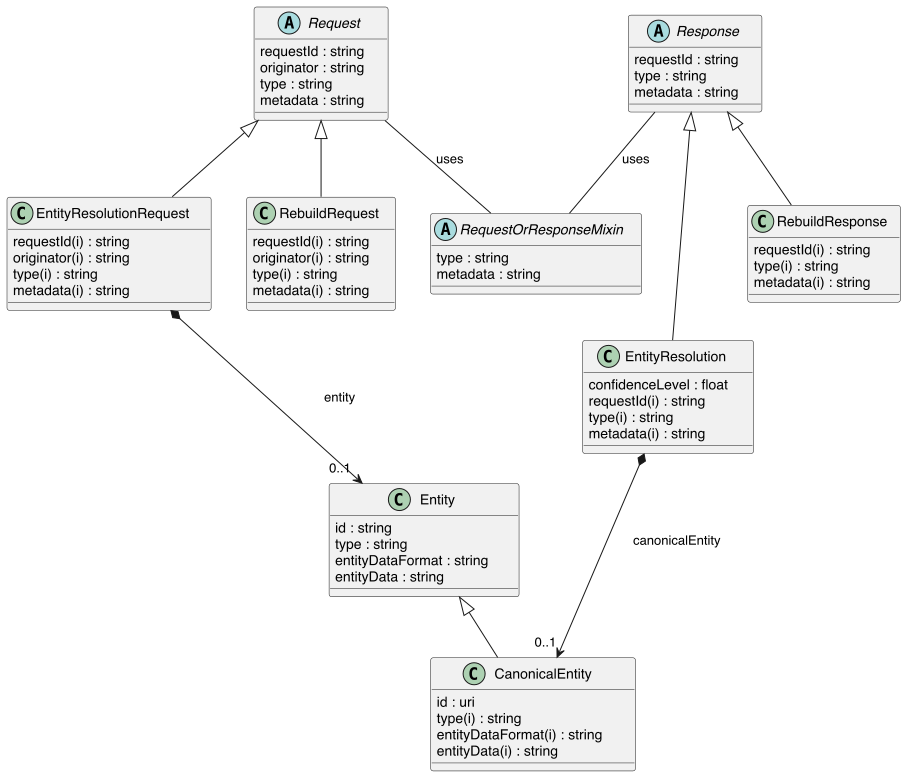
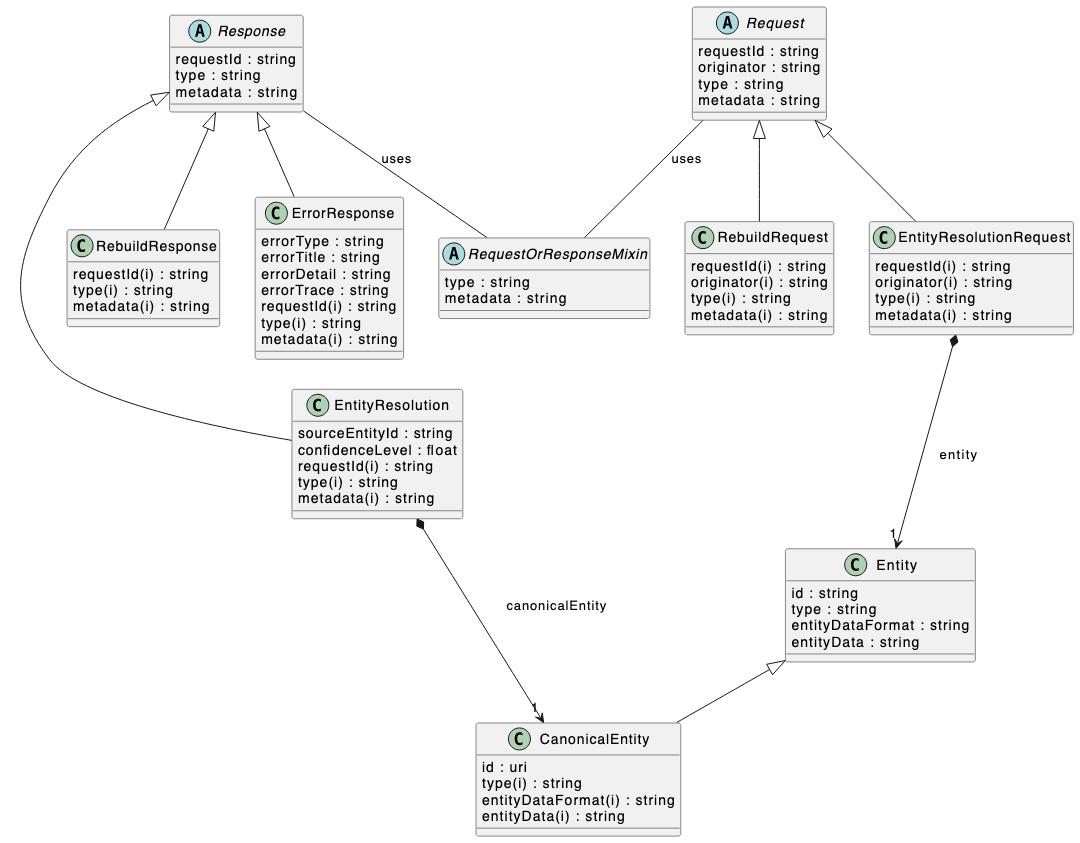
docs (ere schema): regenerate ERE schema-derived docs

diff --git a/src/models/ers_core.py b/src/models/ers_core.py
@@ -267,7 +267,8 @@ class ErrorResponse(Response):
                                 '  "errorTitle": "The entity data is missing in the '
                                 'request",\n'
                                 '  "errorDetail": "The \'entity\' attribute is '
-                                'required in EntityResolutionRequest message"\n'
+                                'required in EntityResolutionRequest message",\n'
+                                '  // Optional and not recommended for production use\n'
                                 '  "errorTrace": "Traceback (most recent call '
                                 'last):\\n  File \\"/app/ere/service.py\\", line 45, '
                                 'in process_request\\n..."\n'

diff --git a/docs/schema/ErrorResponse.md b/docs/schema/ErrorResponse.md
@@ -88,7 +88,8 @@ URI: [ers:ErrorResponse](https://data.europa.eu/ers/schema/ErrorResponse)
   "requestId": "324fs3r345vx",
   "errorType": "ere.exceptions.MalformedRequestError",
   "errorTitle": "The entity data is missing in the request",
-  "errorDetail": "The 'entity' attribute is required in EntityResolutionRequest message"
+  "errorDetail": "The 'entity' attribute is required in EntityResolutionRequest message",
+  // Optional and not recommended for production use
   "errorTrace": "Traceback (most recent call last):\n  File \"/app/ere/service.py\", line 45, in process_request\n..."
 }
  |
@@ -143,9 +144,10 @@ examples:
 - value: "{\n  \"type\": \"ErrorResponse\",\n  \"requestId\": \"324fs3r345vx\",\n\
     \  \"errorType\": \"ere.exceptions.MalformedRequestError\",\n  \"errorTitle\"\
     : \"The entity data is missing in the request\",\n  \"errorDetail\": \"The 'entity'\
-    \ attribute is required in EntityResolutionRequest message\"\n  \"errorTrace\"\
-    : \"Traceback (most recent call last):\\n  File \\\"/app/ere/service.py\\\", line\
-    \ 45, in process_request\\n...\"\n}\n"
+    \ attribute is required in EntityResolutionRequest message\",\n  // Optional and\
+    \ not recommended for production use\n  \"errorTrace\": \"Traceback (most recent\
+    \ call last):\\n  File \\\"/app/ere/service.py\\\", line 45, in process_request\\\
+    n...\"\n}\n"
 from_schema: https://data.europa.eu/ers/schema
 is_a: Response
 attributes:
@@ -224,9 +226,10 @@ examples:
 - value: "{\n  \"type\": \"ErrorResponse\",\n  \"requestId\": \"324fs3r345vx\",\n\
     \  \"errorType\": \"ere.exceptions.MalformedRequestError\",\n  \"errorTitle\"\
     : \"The entity data is missing in the request\",\n  \"errorDetail\": \"The 'entity'\
-    \ attribute is required in EntityResolutionRequest message\"\n  \"errorTrace\"\
-    : \"Traceback (most recent call last):\\n  File \\\"/app/ere/service.py\\\", line\
-    \ 45, in process_request\\n...\"\n}\n"
+    \ attribute is required in EntityResolutionRequest message\",\n  // Optional and\
+    \ not recommended for production use\n  \"errorTrace\": \"Traceback (most recent\
+    \ call last):\\n  File \\\"/app/ere/service.py\\\", line 45, in process_request\\\
+    n...\"\n}\n"
 from_schema: https://data.europa.eu/ers/schema
 is_a: Response
 attributes:

diff --git a/docs/schema/type.md b/docs/schema/type.md
@@ -17,16 +17,16 @@ Alias: type
 
 | Name | Description | Modifies Slot |
 | --- | --- | --- |
-| [ErrorResponse](ErrorResponse.md) | Response sent by the ERE when some error/exception occurs while processing a ... |  no  |
-| [CanonicalEntity](CanonicalEntity.md) | A canonical entity is an entity that the ERE has created during the resolutio... |  no  |
-| [Response](Response.md) | Root class to represent all the responses sent by the ERE |  no  |
-| [Request](Request.md) | Root class to represent all the requests sent to the ERE |  no  |
-| [RebuildRequest](RebuildRequest.md) | A request to reset all the resolutions computed so far and rebuild them as  |  no  |
 | [RebuildResponse](RebuildResponse.md) | A response to a `RebuildRequest`, confirming that the rebuild process has sta... |  no  |
-| [Entity](Entity.md) | An entity is a representation of a real-world entity, as provided by the ERS |  no  |
+| [Response](Response.md) | Root class to represent all the responses sent by the ERE |  no  |
 | [EntityResolution](EntityResolution.md) | An entity resolution response sent by the ERE |  no  |
+| [Request](Request.md) | Root class to represent all the requests sent to the ERE |  no  |
+| [CanonicalEntity](CanonicalEntity.md) | A canonical entity is an entity that the ERE has created during the resolutio... |  no  |
+| [RebuildRequest](RebuildRequest.md) | A request to reset all the resolutions computed so far and rebuild them as  |  no  |
 | [EntityResolutionRequest](EntityResolutionRequest.md) | An entity resolution request sent to the ERE, containing the entity to be res... |  no  |
 | [RequestOrResponseMixin](RequestOrResponseMixin.md) | Root mixin to represent attributes common to both requests and results |  no  |
+| [ErrorResponse](ErrorResponse.md) | Response sent by the ERE when some error/exception occurs while processing a ... |  no  |
+| [Entity](Entity.md) | An entity is a representation of a real-world entity, as provided by the ERS |  no  |
 
 
 

diff --git a/docs/schema/metadata.md b/docs/schema/metadata.md
@@ -24,14 +24,14 @@ Alias: metadata
 
 | Name | Description | Modifies Slot |
 | --- | --- | --- |
-| [ErrorResponse](ErrorResponse.md) | Response sent by the ERE when some error/exception occurs while processing a ... |  no  |
+| [RebuildResponse](RebuildResponse.md) | A response to a `RebuildRequest`, confirming that the rebuild process has sta... |  no  |
 | [Response](Response.md) | Root class to represent all the responses sent by the ERE |  no  |
+| [EntityResolution](EntityResolution.md) | An entity resolution response sent by the ERE |  no  |
 | [Request](Request.md) | Root class to represent all the requests sent to the ERE |  no  |
 | [RebuildRequest](RebuildRequest.md) | A request to reset all the resolutions computed so far and rebuild them as  |  no  |
-| [RebuildResponse](RebuildResponse.md) | A response to a `RebuildRequest`, confirming that the rebuild process has sta... |  no  |
-| [EntityResolution](EntityResolution.md) | An entity resolution response sent by the ERE |  no  |
 | [EntityResolutionRequest](EntityResolutionRequest.md) | An entity resolution request sent to the ERE, containing the entity to be res... |  no  |
 | [RequestOrResponseMixin](RequestOrResponseMixin.md) | Root mixin to represent attributes common to both requests and results |  no  |
+| [ErrorResponse](ErrorResponse.md) | Response sent by the ERE when some error/exception occurs while processing a ... |  no  |
 
 
 

diff --git a/docs/schema/requestId.md b/docs/schema/requestId.md
@@ -17,13 +17,13 @@ Alias: requestId
 
 | Name | Description | Modifies Slot |
 | --- | --- | --- |
-| [ErrorResponse](ErrorResponse.md) | Response sent by the ERE when some error/exception occurs while processing a ... |  no  |
+| [RebuildResponse](RebuildResponse.md) | A response to a `RebuildRequest`, confirming that the rebuild process has sta... |  no  |
 | [Response](Response.md) | Root class to represent all the responses sent by the ERE |  no  |
+| [EntityResolution](EntityResolution.md) | An entity resolution response sent by the ERE |  no  |
 | [Request](Request.md) | Root class to represent all the requests sent to the ERE |  no  |
 | [RebuildRequest](RebuildRequest.md) | A request to reset all the resolutions computed so far and rebuild them as  |  no  |
-| [RebuildResponse](RebuildResponse.md) | A response to a `RebuildRequest`, confirming that the rebuild process has sta... |  no  |
-| [EntityResolution](EntityResolution.md) | An entity resolution response sent by the ERE |  no  |
 | [EntityResolutionRequest](EntityResolutionRequest.md) | An entity resolution request sent to the ERE, containing the entity to be res... |  no  |
+| [ErrorResponse](ErrorResponse.md) | Response sent by the ERE when some error/exception occurs while processing a ... |  no  |
 
 
 

diff --git a/docs/schema/originator.md b/docs/schema/originator.md
@@ -24,9 +24,9 @@ Alias: originator
 
 | Name | Description | Modifies Slot |
 | --- | --- | --- |
-| [Request](Request.md) | Root class to represent all the requests sent to the ERE |  no  |
 | [EntityResolutionRequest](EntityResolutionRequest.md) | An entity resolution request sent to the ERE, containing the entity to be res... |  no  |
 | [RebuildRequest](RebuildRequest.md) | A request to reset all the resolutions computed so far and rebuild them as  |  no  |
+| [Request](Request.md) | Root class to represent all the requests sent to the ERE |  no  |
 
 
 
